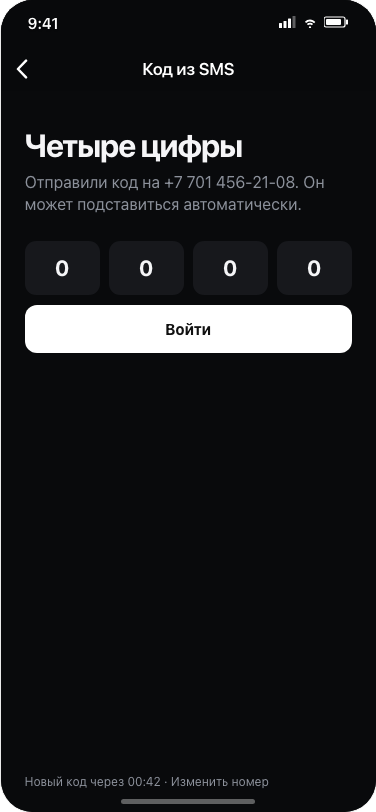
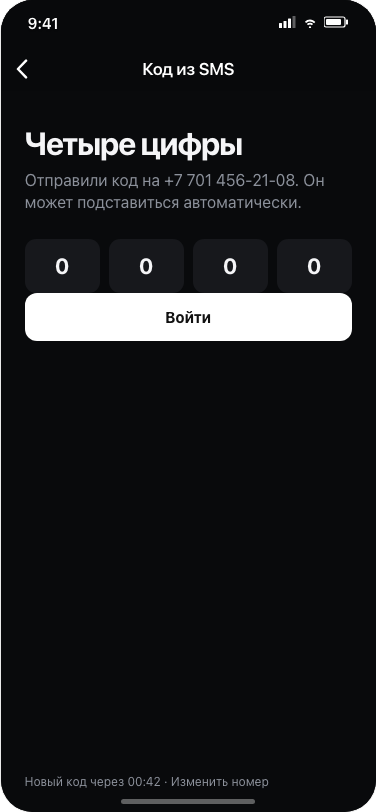
Remove photo from Strochka sign-in

Changed region(s): [[0.0585, 0.3079, 0.9362, 0.4618], [0.0585, 0.1539, 0.8484, 0.2771]]

diff --git a/platform/concepts/strochka/screens/phone.html b/platform/concepts/strochka/screens/phone.html
@@ -1,16 +1,20 @@
 <div class="screen st-dark" id="scr-phone">
   <div class="st-auth">
-    <div class="st-auth-visual">
-      <div class="st-auth-media st-sprite st-rehearsal st-q2"></div>
-      <div class="st-auth-fade"></div>
+    <div class="st-auth-brand">
+      <div class="st-auth-logo">
+        <svg class="ico-svg"><use href="#i-volume-2" /></svg>
+      </div>
+      <div class="st-auth-name">Строчка</div>
     </div>
-    <h1>Выучите свою строчку</h1>
-    <p>
-      Отдельная партия вашего голоса, программа концерта и ноты с репетиции.
-    </p>
-    <div class="st-field">+7 701 456-21-08</div>
-    <div class="st-main-action tap" data-primary data-go="code">
-      Получить код
+    <div class="st-auth-main">
+      <h1>Выучите свою строчку</h1>
+      <p>
+        Отдельная партия вашего голоса, программа концерта и ноты с репетиции.
+      </p>
+      <div class="st-field">+7 701 456-21-08</div>
+      <div class="st-main-action tap" data-primary data-go="code">
+        Получить код
+      </div>
     </div>
     <div class="st-auth-foot">
       Вход открывает программу вашего хора. Сканированные страницы остаются

diff --git a/platform/concepts/strochka/styles.css b/platform/concepts/strochka/styles.css
@@ -917,25 +917,40 @@
   flex: 1;
   flex-direction: column;
 }
-.st-auth > .st-main-action {
+#scr-phone .st-auth {
+  padding-top: 46px;
+}
+.st-auth-brand {
+  display: flex;
+  align-items: center;
+  gap: 11px;
+}
+.st-auth-logo {
+  width: 38px;
+  height: 38px;
+  border-radius: 11px;
+  background: var(--st-blue);
+  color: #061321;
+  display: grid;
+  place-items: center;
+}
+.st-auth-logo .ico-svg {
+  width: 21px;
+  height: 21px;
+  stroke-width: 2.4;
+}
+.st-auth-name {
+  font: 700 21px/26px var(--face);
+  letter-spacing: -0.025em;
+}
+.st-auth-main {
+  margin-top: 104px;
+}
+.st-auth-main > .st-main-action {
   margin-top: 10px;
 }
-.st-auth-visual {
-  height: 210px;
-  margin: 0 -24px;
-  position: relative;
-}
-.st-auth-media {
-  position: absolute;
-  inset: 0;
-}
-.st-auth-fade {
-  position: absolute;
-  inset: 35% 0 0;
-  background: linear-gradient(transparent, var(--st-bg));
-}
 .st-auth h1 {
-  margin: 2px 0 8px;
+  margin: 0 0 8px;
   font: 700 32px/36px var(--face);
   letter-spacing: -0.045em;
 }
